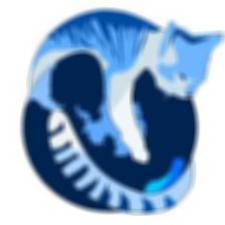
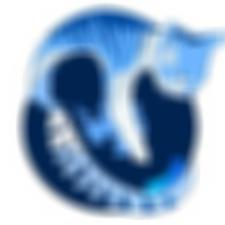
Substituimos time por cronometro

Changed region(s): [[0.0622, 0.0, 1.0, 0.9956], [0.5911, 0.2178, 0.6222, 0.2489]]

diff --git a/src/blur_threads.c b/src/blur_threads.c
@@ -4,27 +4,49 @@
 #include <stdlib.h>
 #include <time.h>
 #include <pthread.h>
+#include "cronometro.h"
 
-#define N 7
+#define N 15
 
 // Struct para guardar apenas 1 cor e a largura e altura dela
 typedef struct argument{
 	float *color;
+	void *new_color;
 	int width, height;
 } argument;
 
+typedef struct arg{
+	argument r, g, b;
+} arg;
+
 void *worker(void *arg){
-	argument *real_arg = (argument *) arg; 						// Faz um cast para o tipo original
-	float *v = malloc(sizeof(float)*real_arg->width*real_arg->height);		// Cria um novo vetor para salvar a imagem com blur
-	blur(real_arg->color, real_arg->width, real_arg->height, N, v); 		// Realiza o blur
-	real_arg->color = v;
-	return (void *) real_arg->color; 				// Retorna o novo vetor com o blur aplicado
+	argument *real_arg = (argument *) arg; 								// Faz um cast para o tipo original
+	blur(real_arg->color, real_arg->width, real_arg->height, N, real_arg->new_color); 		// Realiza o blur
+	return (void *) real_arg->new_color; 								// Retorna o novo vetor com o blur aplicado
 }
 
 
-int main(int argc, char *argv[]){
+void *medir_main(void *args){
 	pthread_t r, g, b;
-	void *new_r, *new_g, *new_b;
+		
+	argument r_arg = ((arg *) args)->r;
+	argument g_arg = ((arg *) args)->g;
+	argument b_arg = ((arg *) args)->b;
+	
+	// Cria uma thread para tratar de cada cor independentemente
+	pthread_create(&r, NULL, worker, (void *) &r_arg);
+	pthread_create(&g, NULL, worker, (void *) &g_arg);
+	pthread_create(&b, NULL, worker, (void *) &b_arg);
+
+	// Salva os retornos de cada thread
+	pthread_join(r, &(r_arg.new_color));
+	pthread_join(g, &(g_arg.new_color));
+	pthread_join(b, &(b_arg.new_color));
+
+	return NULL;
+}
+
+int main(int argc, char *argv[]){
 	
 	// Abre a imagem
 	imagem I = abrir_imagem(argv[1]);
@@ -35,31 +57,31 @@ int main(int argc, char *argv[]){
 	r_arg.color = I.r;
 	r_arg.width = I.width;
 	r_arg.height = I.height;
+	r_arg.new_color = malloc(sizeof(float)*I.width*I.height);
 	
 	g_arg.color = I.g;
 	g_arg.width = I.width;
 	g_arg.height = I.height;
+	g_arg.new_color = malloc(sizeof(float)*I.width*I.height);
 
 	b_arg.color = I.b;
 	b_arg.width = I.width;
 	b_arg.height = I.height;
+	b_arg.new_color = malloc(sizeof(float)*I.width*I.height);
+
+	arg args;
+	args.r= r_arg;
+	args.g = g_arg;
+	args.b = b_arg;
+
+	medir_tempo(medir_main, &args);
 	
-	// Cria uma thread para tratar de cada cor independentemente
-	pthread_create(&r, NULL, worker, (void *) &r_arg);
-	pthread_create(&g, NULL, worker, (void *) &g_arg);
-	pthread_create(&b, NULL, worker, (void *) &b_arg);
-
-	// Salva os retornos de cada thread
-	pthread_join(r, &new_r);
-	pthread_join(g, &new_g);
-	pthread_join(b, &new_b);
-
 	liberar_imagem(&I);
 	
 	// Atualiza a imagem com os novos valores com blur
-	I.r = (float *) new_r;
-	I.g = (float *) new_g;
-	I.b = (float *) new_b;
+	I.r = (float *) r_arg.new_color;
+	I.g = (float *) g_arg.new_color;
+	I.b = (float *) b_arg.new_color;
 	
 	// Salva a imagem e libera ela
 	salvar_imagem(argv[2], &I);

diff --git a/src/blur_process.c b/src/blur_process.c
@@ -6,23 +6,24 @@
 #include <unistd.h>
 #include <sys/mman.h>
 #include <pthread.h>
+#include "cronometro.h"
 
-#define N 7
+#define N 15
 
-int main(int argc, char *argv[]) {
-	
-	int protection = PROT_READ | PROT_WRITE;
-        int visibility = MAP_SHARED | MAP_ANON;
+
+// Struct para os argumentos da funcao medir_main
+typedef struct arg{
 	imagem *I;
-	imagem i;
-	
-	I = (imagem*) mmap(NULL, sizeof(imagem), protection, visibility, 0, 0);
-	*I = abrir_imagem(argv[1]);
-	
-	i.r = (float*) mmap(NULL, sizeof(float)*((*I).width*(*I).height), protection, visibility, 0, 0);
-	i.g = (float*) mmap(NULL, sizeof(float)*((*I).width*(*I).height), protection, visibility, 0, 0);
-	i.b = (float*) mmap(NULL, sizeof(float)*((*I).width*(*I).height), protection, visibility, 0, 0);
-	
+	float *r, *g, *b;
+	int width , height;
+} arg;
+
+void *medir_main(void *args){
+	imagem *I = ((arg *) args)->I;
+	float *r = ((arg *) args)->r;
+	float *g = ((arg *) args)->g;
+	float *b = ((arg *) args)->b;
+
 	pid_t pid[3] = {-1, -1, -1};
 	
 	pid[0] = fork();
@@ -32,25 +33,49 @@ int main(int argc, char *argv[]) {
 		pid[2] = fork();
 	
 	if(pid[0] == 0) {
-		blur((*I).r, (*I).width, (*I).height, N, i.r);
+		blur((*I).r, (*I).width, (*I).height, N, r);
 	}
 	if(pid[1] == 0) {
-		blur((*I).g, (*I).width, (*I).height, N, i.g);
+		blur((*I).g, (*I).width, (*I).height, N, g);
 	}
 	if(pid[2] == 0) {
-		blur((*I).b, (*I).width, (*I).height, N, i.b);
+		blur((*I).b, (*I).width, (*I).height, N, b);
 	}
 	
 	if(pid[0] != 0 && pid[1] != 0 && pid[2] != 0) {
 		waitpid(pid[0], NULL, 0);
         	waitpid(pid[1], NULL, 0);
         	waitpid(pid[2], NULL, 0);
-        	i.width = (*I).width;
-        	i.height = (*I).height;
-        	liberar_imagem(&I[0]);
-		salvar_imagem(argv[2], &i);
 
-		return 0;
+		return NULL;
 	}
 	
+}
+
+int main(int argc, char *argv[]){
+	int protection = PROT_READ | PROT_WRITE;
+        int visibility = MAP_SHARED | MAP_ANON;
+	
+	imagem *I;
+	
+	I = (imagem*) mmap(NULL, sizeof(imagem), protection, visibility, 0, 0);
+	*I = abrir_imagem(argv[1]);
+	
+	arg arg;
+	arg.I = I;
+
+	// Alocando os canais compartilhados entre os processos
+	arg.r = (float*) mmap(NULL, sizeof(float)*((*I).width*(*I).height), protection, visibility, 0, 0);
+	arg.g = (float*) mmap(NULL, sizeof(float)*((*I).width*(*I).height), protection, visibility, 0, 0);
+	arg.b = (float*) mmap(NULL, sizeof(float)*((*I).width*(*I).height), protection, visibility, 0, 0);
+	
+	medir_tempo(medir_main, &arg);
+        
+	I->r = arg.r;
+	I->g = arg.g;
+	I->b = arg.b;
+
+	salvar_imagem(argv[2], &(*I));
+
+	return 0;
 }

diff --git a/src/blur_linear.c b/src/blur_linear.c
@@ -2,33 +2,51 @@
 #include "imageprocessing.h"
 #include "blur.h"
 #include <stdlib.h>
+#include "cronometro.h"
 
-#define N 7
+#define N 15
 
-int main(int argc, char *argv[]) {
-	
+// Struct
+typedef struct arg{
 	imagem I;
-	
-	I = abrir_imagem(argv[1]);
-
 	float *r, *g, *b;
-	r = malloc(I.width*I.height*(sizeof(float)));
-	g = malloc(I.width*I.height*(sizeof(float)));
-	b = malloc(I.width*I.height*(sizeof(float)));
-		
+}arg;
+
+// Funcao que implementa blur
+void *medir_main(void *args){
+	imagem I = ((arg *) args)->I;
+	float *r = ((arg *) args)->r;
+	float *g = ((arg *) args)->g;
+	float *b = ((arg *) args)->b;
+	
+	// Aplica o blur salvando nos canais alocados acima
 	blur(I.r, I.width, I.height, N, r);
 	blur(I.g, I.width, I.height, N, g);
 	blur(I.b, I.width, I.height, N, b);
 	
-	liberar_imagem(&I);
-	
-	I.r = r;
-	I.g = g;
-	I.b = b;
+	return NULL;
+}
 
-	salvar_imagem(argv[2], &I);
-	liberar_imagem(&I);
+int main(int argc, char *argv[]){
+	arg arg;
 	
+	arg.I = abrir_imagem(argv[1]); // Abre imagem
+
+	arg.r = malloc((arg.I).width*(arg.I).height*(sizeof(float)));
+	arg.g = malloc((arg.I).width*(arg.I).height*(sizeof(float)));
+	arg.b = malloc((arg.I).width*(arg.I).height*(sizeof(float)));
+		
+
+	medir_tempo(medir_main, &arg);
+	
+	liberar_imagem(&(arg.I));
+	
+	(arg.I).r = arg.r;
+	(arg.I).g = arg.g;
+	(arg.I).b = arg.b;
+	
+	// Salva imagem com blur
+	salvar_imagem(argv[2], &(arg.I));
+	liberar_imagem(&(arg.I));
 	return 0;
-	
 }

diff --git a/src/blur.c b/src/blur.c
@@ -3,8 +3,12 @@
 #include "imageprocessing.h"
 #include <stdio.h>
 
+/*
+Funcao que implementa o blur com n = N
+Aplica o blur na matriz a e salva o resultado na matriz f
+*/
 void blur(float *a, int width, int height, int N, float *f) {
-
+	
 	int area;
 	float soma;
 	
@@ -14,7 +18,7 @@ void blur(float *a, int width, int height, int N, float *f) {
 		for(int j = (1-N)/2; j <= (N-1)/2; j++) {
 			for(int k = (1-N)/2; k <= (N-1)/2; k++) {
 				if(((int)(i/width) + j < 0) || ((int)(i/width) + j >= height) || ((int)(i%width) + k < 0) || ((int)(i%width) + k >= width)) {
-					area--;
+					area--; // Se o elemento estiver fora da matriz ele nao eh considerado
 				}
 				else {
 					soma += a[i+(j*width)+k]; 

diff --git a/histogram.py b/histogram.py
@@ -3,7 +3,7 @@ import numpy as np
 from scipy import stats
 import os
 
-DIR="Graficos/"
+DIR="doc/"
 
 for i in os.listdir("."):
 	if(".txt" in i):
@@ -16,9 +16,9 @@ for i in os.listdir("."):
 					pass
 		mu=np.mean(m)
 		sigma=np.std(m)
-		plt.hist(m,bins=10, label="Média = %3f | Desvio Padrão = %3f" %(mu, sigma))
-		x = np.linspace(mu - 3*sigma, mu + 3*sigma, 100)
-		plt.plot(x, stats.norm.pdf(x, mu, sigma))
+		plt.hist(m,bins=20, label="Média = %3f | Desvio Padrão = %3f" %(mu, sigma))
+		#x = np.linspace(mu - 3*sigma, mu + 3*sigma, 100)
+		#plt.plot(x, stats.norm.pdf(x, mu, sigma))
 		plt.title(i.replace(".txt", ""))
 		plt.legend()
 		plt.xlabel("Tempo (s)")

diff --git a/src/cronometro.c b/src/cronometro.c
@@ -1,0 +1,24 @@
+#include <time.h>
+#include <sys/time.h>
+#include <stdio.h>
+
+void medir_tempo(void *(*funcao)(void *args), void *args) {
+  clock_t ct0, ct1, dct; /* Medida de tempo baseada no clock da CPU */
+  struct timeval rt0, rt1, drt; /* Tempo baseada em tempo real */
+  void *P;
+
+  gettimeofday(&rt0, NULL);
+  ct0 = clock();
+
+  P = funcao(args);
+
+  ct1 = clock();
+  gettimeofday(&rt1, NULL);
+
+  timersub(&rt1, &rt0, &drt);
+
+  //printf("Tempo real: %ld.%06ld segundos\n", drt.tv_sec, drt.tv_usec);
+  printf("%f\n", (double)(ct1-ct0)/CLOCKS_PER_SEC);
+}
+
+

diff --git a/src/cronometro.h b/src/cronometro.h
@@ -1,0 +1,8 @@
+
+#ifndef CRONOMETRO_H
+#define CRONOMETRO_H
+
+
+void medir_tempo(void *(*funcao)(void *args), void *args);
+
+#endif

diff --git a/README.md b/README.md
@@ -5,6 +5,10 @@ Por Augusto Amstalden e João Gabriel Kruse
 
 Verificar a diferença em tempo de execução de um filtro blur implementado em um programa linear, com threads e com processos.
 
+## Requisitos
+
+Os códigos em c são compilados utilizando gcc e precisam da biblioteca freeimage. Além disso, para o plot dos gráficos é necessário ter python3 instalado com a biblioteca matplotlib.
 ## Uso
 
-*make test* rodará cada programa 100x para cada imagem em *images* medindo o tempo de execução usando o commando *time* do unix. Os resultados são mostrados na pasta *Graficos* na forma de um histograma e as imagens com blur resultantes aparecem na pasta saida. As imagens precisam ser .jpg.
+*make test* rodará cada programa 100x para cada imagem em *data* medindo o tempo de execução usando a função do programa cronometro.c. Os resultados são mostrados na pasta *doc* na forma de um histograma e as imagens com blur resultantes aparecem na pasta *Saida*. As imagens precisam ser .jpg.
+*make run* executará cada programa uma única vez para cada imagem da pasta *data*, salvando seu resultado na pasta *Saida*
